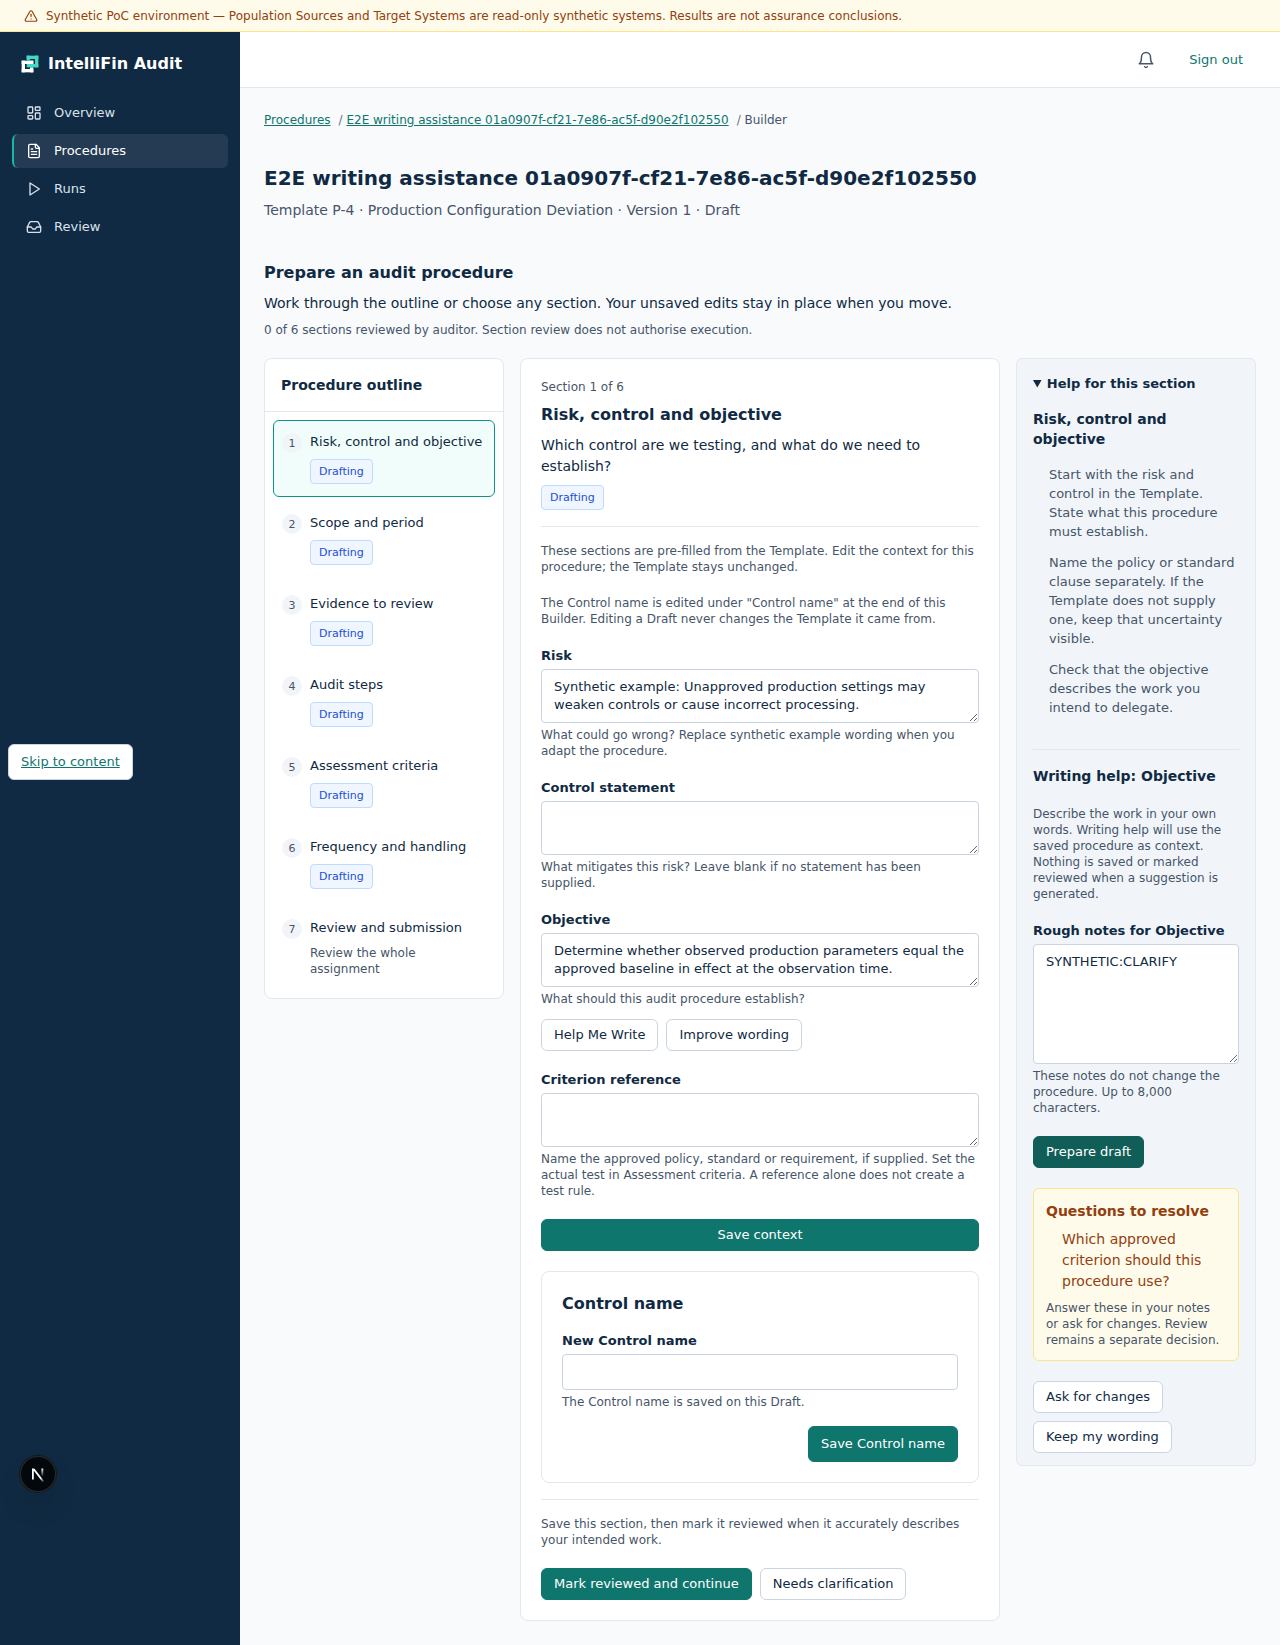
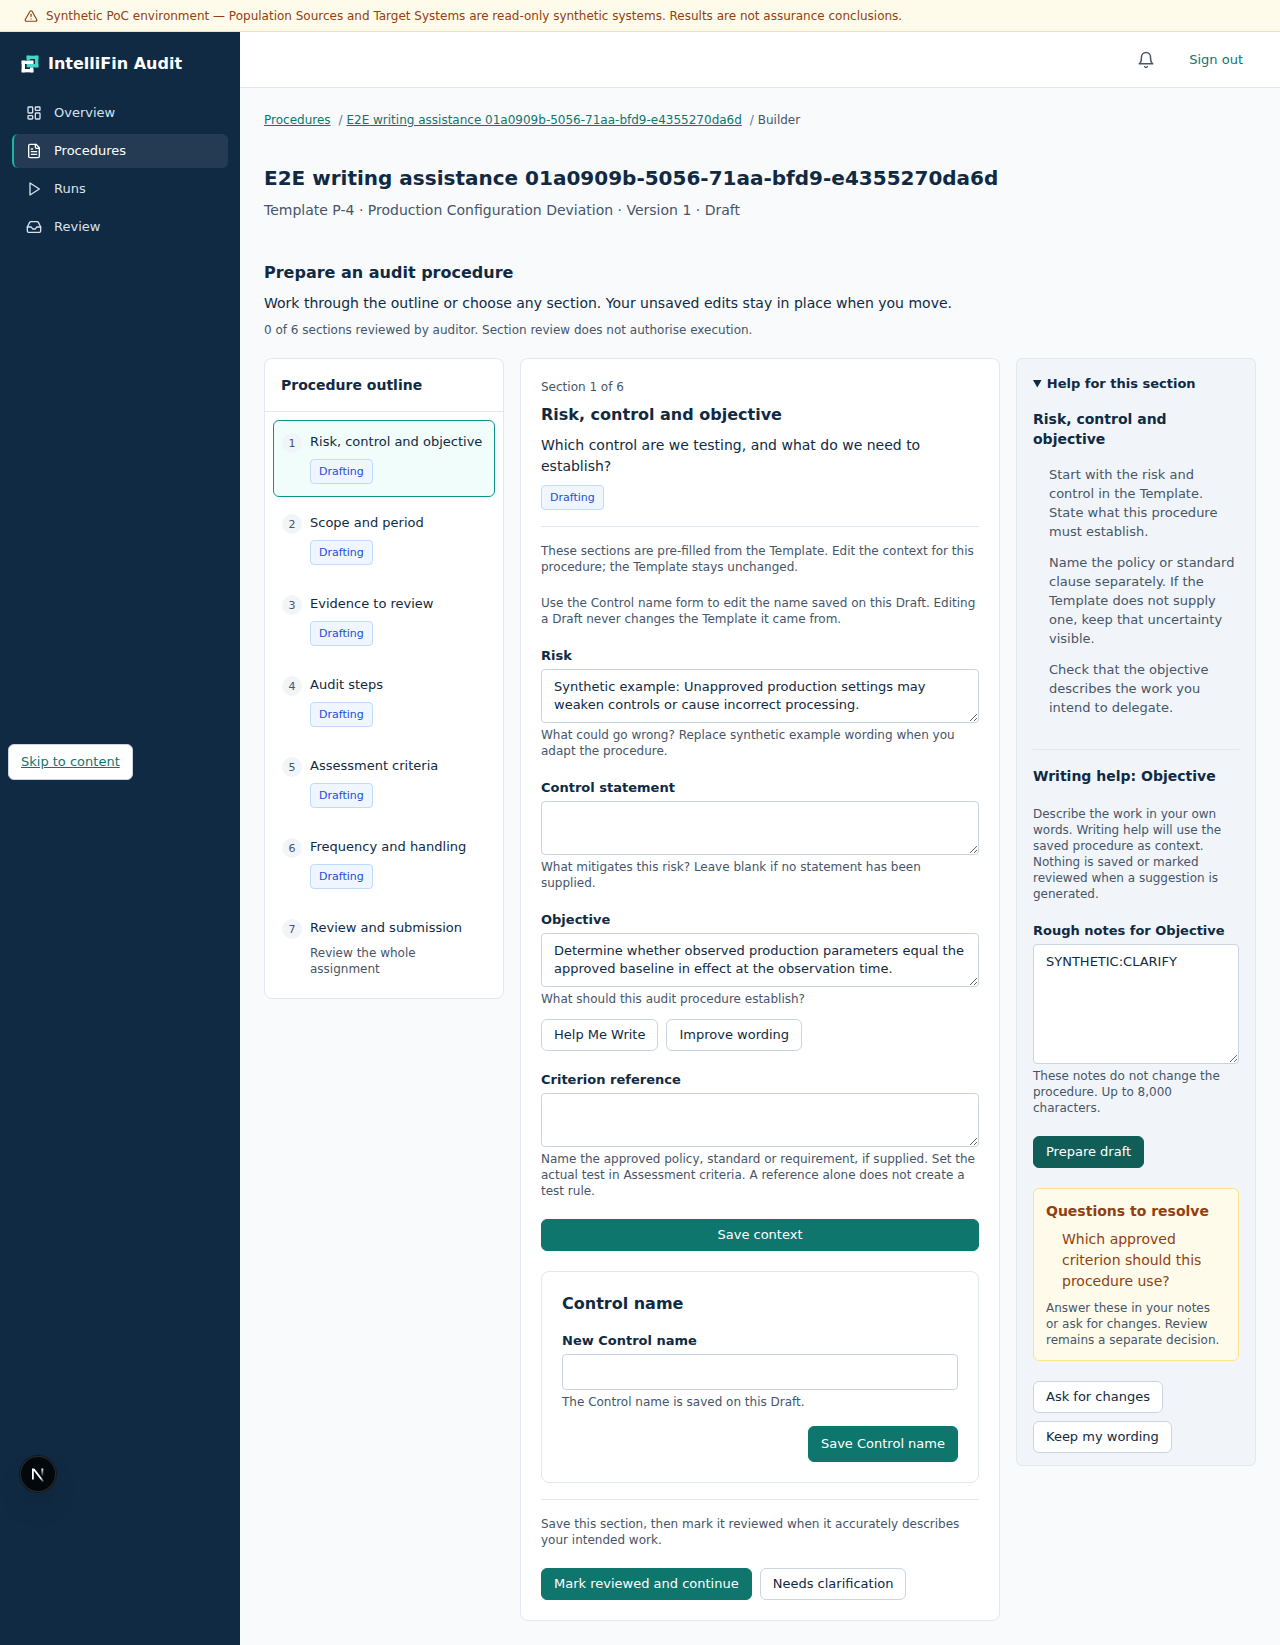
docs(procedures): record passing gates and refreshed browser evidence

Changed region(s): [[0.4375, 0.341, 0.75, 0.403], [0.4375, 0.062, 0.7812, 0.124]]

diff --git a/_bmad-output/implementation-artifacts/guided-authoring-implementation-report.md b/_bmad-output/implementation-artifacts/guided-authoring-implementation-report.md
@@ -9,9 +9,9 @@ Review PR: [#30](https://github.com/raeltec-systems/intellifin-audit/pull/30), a
 parent PR #29 was open and unmerged when the feature was created. No parent branch, main,
 release, merge or deployment was changed. The original checkout was clean.
 
-Authoring/UI checkpoint: `5d9be5667d317a4fd413221cc9e167f3fb30c6d1`.
-Final code correction: `ff527a0ed62ebe8743f35296bfcd6d2d59e7b4ae`, tree
-`7eb103cb59e534c7518c0f982427dd274958d498`. The PR summary pins the exact final head
+Fully verified UI checkpoint: `abe27cab8ff323a2d15a090022b721153e6f283f`.
+Final code correction: `18b1eac961c77dde7a932d3b90f32eec2c3eaeb9`, tree
+`029b7a0542b2b748d9667b4109a39748c74b5257`. The PR summary pins the exact final head
 (including this report) and its hosted CI run. Results are updated there without changing
 the tested commit. The table below records checkpoint evidence and the live-provider limit.
 
@@ -37,6 +37,8 @@ the tested commit. The table below records checkpoint evidence and the live-prov
 - Duplicate acceptance returns one outcome without another content write or plan job.
   Lost-response retries reuse their exact request receipt. A late completed receipt can be
   ready but stale after submission; acceptance is refused before and after completion.
+  If a human rejects a pending request, its late proposal stays discarded; known token usage
+  is still recorded without changing the rejection, procedure, review or plan.
 - Review acknowledgements are optional preparation progress. Submission still represents
   the auditor's approval of the whole assignment and keeps all existing required-field,
   plan-readiness and governance checks. Explicit unresolved clarification blocks submission.
@@ -63,15 +65,15 @@ The toolchain is the repository's Node 24.20.0 and pnpm 11.25.0 with the frozen 
 | Environment | Actual result |
 | --- | --- |
 | Local authoring checkpoint | 4,087 unit tests passed; typecheck, 590-module dependency boundaries, build and no-drift schema generation passed. |
-| Local focused corrections | The final code tree passed 105 focused tests, pinned typecheck and 590-module boundaries. Earlier Guided/Evidence hydration checks passed 24 tests. |
-| Hosted `5d9be566…`: types, units and boundaries | Passed: 4,097 tests across 203 files; no violations across 590 modules. |
-| Hosted `5d9be566…`: PostgreSQL 18 and migrations | Passed: 549 integration tests across 46 files, populated historical upgrades, schema generation without drift, and all 22 selected guard mutations detected. |
-| Hosted `5d9be566…`: containers | Passed: all three images build; startup, authorisation and browser smoke checks pass. No image was published. |
-| Hosted `5d9be566…`: browser and accessibility | Focused guided/owner/writing journey passed all 8 cases, including setup. Full suite: 186 passed, 8 failed, 1 skipped. Two old navigation/mobile expectations caused the first failures; a restarted worker lost the shared named fixtures and caused the remaining failures. Corrections are isolated in `ff527a0e…`; final complete-suite results are pinned in PR #30. |
-| Hosted `5d9be566…`: hydrated UI/worker abuse | Passed: all 7 guard mutations detected by real assertion failures. |
+| Local focused corrections | The navigation/wrapping tree passed 105 focused tests, pinned typecheck and 590-module boundaries. The final late-usage correction passed all 38 authoring command cases and pinned typecheck. Earlier Guided/Evidence hydration checks passed 24 tests. |
+| Hosted `abe27cab…`: types, units and boundaries | Passed: 4,098 tests across 203 files; no violations across 590 modules. |
+| Hosted `abe27cab…`: PostgreSQL 18 and migrations | Passed: 549 integration tests across 46 files, populated historical upgrades, schema generation without drift, and all 22 selected guard mutations detected. |
+| Hosted `abe27cab…`: containers | Passed: all three images build; startup, authorisation and browser smoke checks pass. No image was published. |
+| Hosted `abe27cab…`: browser and accessibility | Passed: all 195 browser/accessibility cases, with zero failures or skips. The separate focused guided/owner/writing step passed all 8 cases, including setup. The complete suite exercises the actual hero review navigation and a saved mobile Target System change after reload. |
+| Hosted `abe27cab…`: hydrated UI/worker abuse | Passed: all 7 guard mutations detected by real assertion failures. |
 | Live OpenAI | Blocked: no AUTHORING_OPENAI_API_KEY configured. The verification script reported blocked and made zero live calls. Synthetic transport responses are not live-provider evidence. |
 
-Hosted evidence: [CI run 34598654756](https://github.com/raeltec-systems/intellifin-audit/actions/runs/34598654756).
+Hosted evidence: [CI run 34601457170](https://github.com/raeltec-systems/intellifin-audit/actions/runs/34601457170).
 The separately committed native-timeout correction closes an existing page-cleanup race
 found by the previous PostgreSQL run: Playwright can throw its native TimeoutError just
 before the outer deadline. Either timeout now discards the page. The original integration
@@ -103,12 +105,12 @@ review. Those examples prove review/acceptance mechanics, not semantic equivalen
    unauthorised stage.
 
 The following captures come from the actual Chromium-rendered implementation on
-`5d9be5667d317a4fd413221cc9e167f3fb30c6d1`, using labelled synthetic fixtures.
+`abe27cab8ff323a2d15a090022b721153e6f283f`, using labelled synthetic fixtures.
 They are unedited PNGs; their hashes, dimensions and originating job are retained in
 [the capture manifest](guided-authoring-screenshots/manifest.json).
-All six captures were inspected. Two subsequent presentation corrections wrap long help
-buttons inside the narrow panel and remove an obsolete positional name-editor instruction.
-The final CI browser artifact also retains fresh captures from the exact reviewed head.
+All six captures were inspected, including the corrected help-button wrapping and context
+copy. The subsequent correction only retains known usage for rejected requests; it does not
+change these UI surfaces. The final CI browser artifact also retains fresh captures.
 
 | Capture | What to inspect |
 | --- | --- |

diff --git a/_bmad-output/implementation-artifacts/guided-authoring-continuation.md b/_bmad-output/implementation-artifacts/guided-authoring-continuation.md
@@ -32,6 +32,8 @@ behavior, safeguards, acceptance evidence and actual UI captures; see
 | `5d9be5667d317a4fd413221cc9e167f3fb30c6d1` | Retain actual browser captures under named PNG paths. |
 | `ab41d7bbc47d2e7b8f75f9f53ee41042aba3aaf0` | Dispose the active browser page after a native Playwright timeout. |
 | `ff527a0ed62ebe8743f35296bfcd6d2d59e7b4ae` | Actual review navigation, persisted mobile saves, help-button wrapping and location-neutral copy. |
+| `abe27cab8ff323a2d15a090022b721153e6f283f` | Implementation report and six inspected original captures with provenance. |
+| `18b1eac961c77dde7a932d3b90f32eec2c3eaeb9` | Preserve known late-response usage after rejection without keeping or applying its proposal. |
 
 The authenticated GitHub connector publishes these commits because CLI Git has no push
 credential. Each blob and resulting tree SHA was verified against the local tested tree.
@@ -68,6 +70,19 @@ dependencies remain ai 7.0.89, @ai-sdk/openai 4.0.58 and @ai-sdk/anthropic 4.0.4
 - Live OpenAI: **blocked, zero live calls**. No dedicated authoring credential is configured.
   The live verification script exited 2 with an explicit blocked result. Synthetic command,
   SDK transport and browser responses do not prove provider access or wording faithfulness.
+
+Hosted [run 34601457170](https://github.com/raeltec-systems/intellifin-audit/actions/runs/34601457170)
+on exact pushed `abe27cab8ff323a2d15a090022b721153e6f283f` completed with **all five jobs green**:
+4,098 unit tests, typecheck and boundaries; all 549 PostgreSQL integration cases, migrations
+and populated upgrades; all container checks; all **195 browser/accessibility tests with no
+failures or skips** plus 8 focused cases; and all 29 guard mutations detected. The full suite
+now proves the corrected real review navigation and persisted mobile save.
+
+The late-response accounting correction has tree `029b7a0542b2b748d9667b4109a39748c74b5257`
+(local original `3158d1b4457cbb56f199737b7978601ae802cbda`). All 38 authoring command
+tests and the pinned typecheck passed. The strengthened rejection test verifies known usage
+in the receipt/audit, no retained proposal, exact unchanged procedure content, no plan job
+and refused acceptance. It changes metadata accounting only.
 
 Earlier runs found historical fixtures using new columns too early, obsolete UI locators,
 pre-hydration input races and an inconsistent completed-receipt assertion. These were corrected
@@ -112,7 +127,8 @@ units and root test typechecking. Equivalent remote object
 Six original hosted PNGs were inspected and retained with SHA-256 hashes, dimensions and
 source commit/job in `guided-authoring-screenshots/manifest.json`. They show the actual
 proposal, stale and clarification states, mobile layout, auditor review and manager review.
-They predate only the final small wrapping and copy corrections; final CI retains fresh captures.
+The refreshed captures come from fully passing `abe27cab…` and include the wrapping/copy
+corrections. The subsequent usage-accounting patch does not change these UI surfaces.
 
 Next for the independent reviewer: inspect the exact tested head and complete hosted gate
 results pinned in PR #30, then review the application acceptance/author identity transaction,
